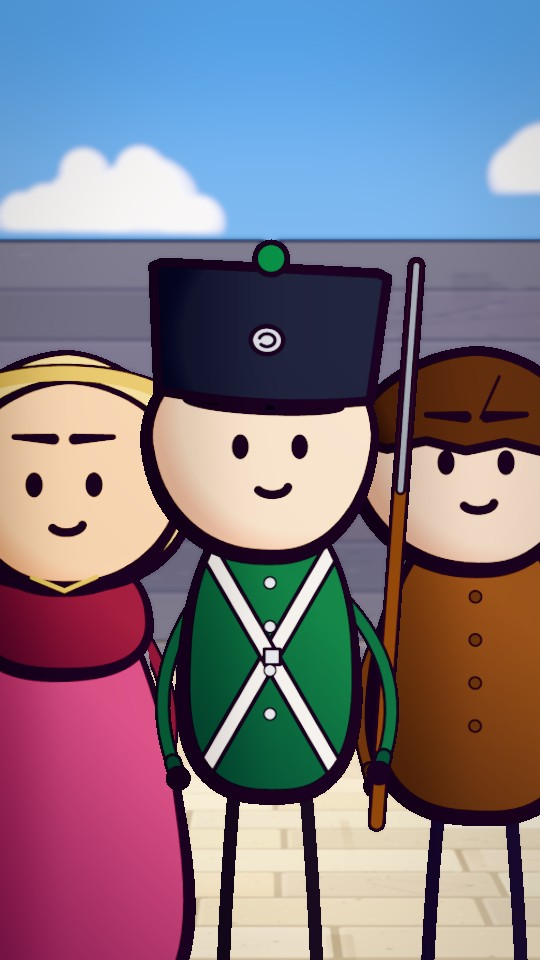
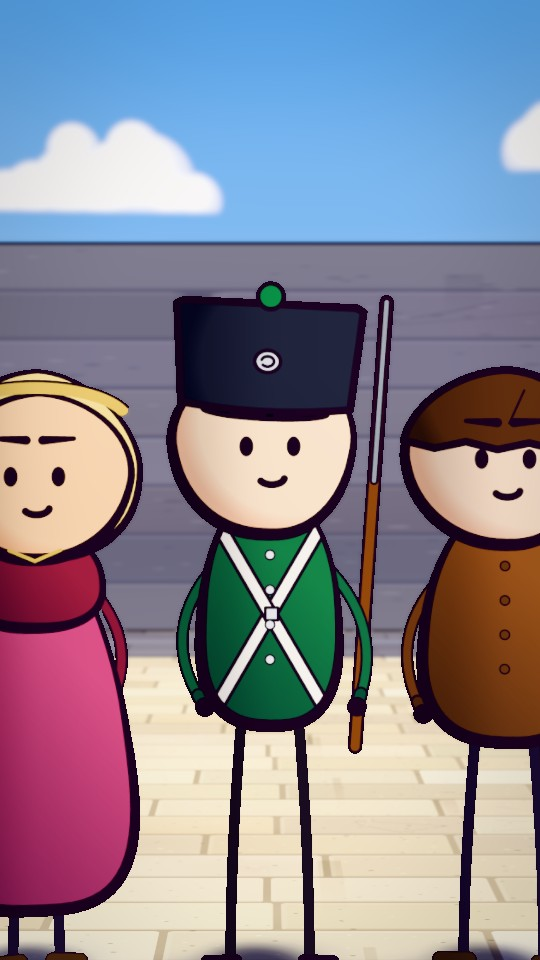
CharacterLab: re-stage the headwear tests so every head is in frame; refresh hat before/after sheet
Claude-Session: https://claude.ai/code/session_0143MgsTq1jn14hergDFE9ZA

diff --git a/src/videos/lab/labWorld.ts b/src/videos/lab/labWorld.ts
@@ -30,10 +30,10 @@ export const POSES: [string, string][] = [["stand", "neutral"], ["walk", "walkin
 export const SCENARIOS: Scenario[] = [
   { key: "lineup", label: "body types, outfits, hats", cam: cam([-0.7, 1.5, 4.6], [-0.7, 0.9, -4], 46) },
   ...POSES.map(([k, l]) => ({ key: "pose_" + k, label: l, cam: cam([0.4, 1.15, 3.9], [0.4, 0.8, 0], 38) })),
-  { key: "hats_a", label: "headwear A, level", cam: cam([0, 1.48, 3.3], [0, 1.4, 0], 36) },
-  { key: "hats_b", label: "headwear B, level", cam: cam([0, 1.48, 3.3], [0, 1.4, 0], 36) },
-  { key: "hats_a_tilt", label: "headwear A, tilted heads", cam: cam([0, 1.48, 3.3], [0, 1.4, 0], 36) },
-  { key: "hats_b_tilt", label: "headwear B, tilted heads", cam: cam([0, 1.48, 3.3], [0, 1.4, 0], 36) },
+  { key: "hats_a", label: "headwear A, level", cam: cam([0, 1.5, 4.4], [0, 1.38, 0], 34) },
+  { key: "hats_b", label: "headwear B, level", cam: cam([0, 1.5, 4.4], [0, 1.38, 0], 34) },
+  { key: "hats_a_tilt", label: "headwear A, tilted heads", cam: cam([0, 1.5, 4.4], [0, 1.38, 0], 34) },
+  { key: "hats_b_tilt", label: "headwear B, tilted heads", cam: cam([0, 1.5, 4.4], [0, 1.38, 0], 34) },
   { key: "terrain", label: "flat, bumps, slope, step", cam: cam([-3.6, 1.5, 5.4], [-3.8, 0.45, 0.6], 48) },
   { key: "props", label: "props on slope / bumps, sitting on a crate", cam: cam([3.7, 1.6, 6.4], [3.9, 0.6, 0.6], 56) },
   { key: "container", label: "inside a barrel, hands on the rim, cat on the rim", cam: cam([0.3, 1.75, 3.2], [0, 1.25, 0], 38) },
@@ -204,7 +204,7 @@ export class LabWorld {
     } else if (key.startsWith("hats")) {
       const b = key.startsWith("hats_b"), tilt = key.endsWith("tilt");
       const cast: Outfit[] = b ? [townsfolk(1), soldier(0), { ...RIVERMAN[1], hat: "hair", hair: "#5a3b2a" }] : [ANNIE, RIVERMAN[0], RIVERMAN[2]];
-      cast.forEach((o, i) => P(30 + i, o, -0.46 + i * 0.46, 0, { mode: "stand", expr: "smile", headTilt: tilt ? [-12, 10, -9][i] : 0, seed: 1 + i }, o === ANNIE ? 0.95 : 1));
+      cast.forEach((o, i) => P(30 + i, o, -0.66 + i * 0.66, 0, { mode: "stand", expr: "smile", headTilt: tilt ? [-12, 10, -9][i] : 0, seed: 1 + i }, o === ANNIE ? 0.95 : 1));
     } else if (key === "terrain" || key === "walk_motion") {
       if (key === "terrain") {
         P(40, RIVERMAN[0], -6.0, 0.3, { mode: "stand", expr: "smile" });               // on bumps
